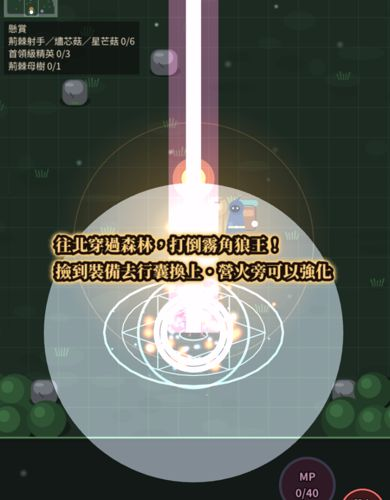
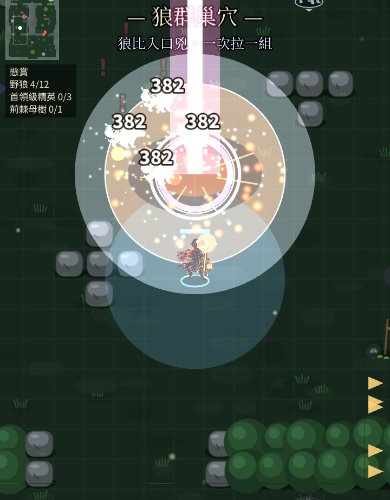
流星箭雨更有份量：每波 5→8 支星箭、每一波地上亮一圈粉光；README 截圖 65（長弓變化二）、70（隕星術）、72（冰霜新星）、74（落點圈）重拍成現在的畫面（沒有開場大字疊在上面）
Claude-Session: https://claude.ai/code/session_01DgXGTtytecjxfhsznfgQ7d

diff --git a/src/game/scenes/RtBattleScene.ts b/src/game/scenes/RtBattleScene.ts
@@ -4393,7 +4393,7 @@ export class RtBattleScene extends Phaser.Scene {
     const elem = st === 'burn' ? 0xff8a3a : st === 'poison' ? 0xa8ff6a : st === 'weak' ? 0xc8a0ff : 0;
     if (hs.type === 'ring' || (ult && hs.type === 'circle')) {
       // 環形箭雨／流星箭雨（D-149）：箭從天上落進範圍
-      this.arrowRain(x, y, hs.type === 'ring' ? hs.rIn : 0, hs.type === 'ring' ? hs.rOut : hs.r, ult ? 0xff9ae0 : 0x9fe0ff, ult ? 5 : 12, ult);
+      this.arrowRain(x, y, hs.type === 'ring' ? hs.rIn : 0, hs.type === 'ring' ? hs.rOut : hs.r, ult ? 0xff9ae0 : 0x9fe0ff, ult ? 8 : 12, ult);
       return;
     }
     if (hs.type === 'line') {
@@ -4471,6 +4471,15 @@ export class RtBattleScene extends Phaser.Scene {
       } });
     }
     if (rIn > 0) shockRing(this, this.sx(x), this.sy(y), color, rOut * this.k, 360, 3);
+    else if (star) {
+      // 第 69 輪：流星箭雨每一波地上亮一圈粉光（以前一波只有 5 支細箭，整招看起來稀稀落落）
+      const R = rOut * this.k;
+      const gl = this.add.graphics().setDepth(4).setBlendMode(Phaser.BlendModes.ADD).setPosition(this.sx(x), this.sy(y));
+      gl.fillStyle(color, 0.13).fillCircle(0, 0, R);
+      gl.fillStyle(0xffffff, 0.08).fillCircle(0, 0, R * 0.55);
+      gl.lineStyle(3, color, 0.55).strokeCircle(0, 0, R);
+      this.tweens.add({ targets: gl, alpha: 0, duration: 340, ease: 'Quad.easeOut', onComplete: () => gl.destroy() });
+    }
   }
 
   /** 星落一閃（D-112）：天上落下的光柱＋落地衝擊環 */
